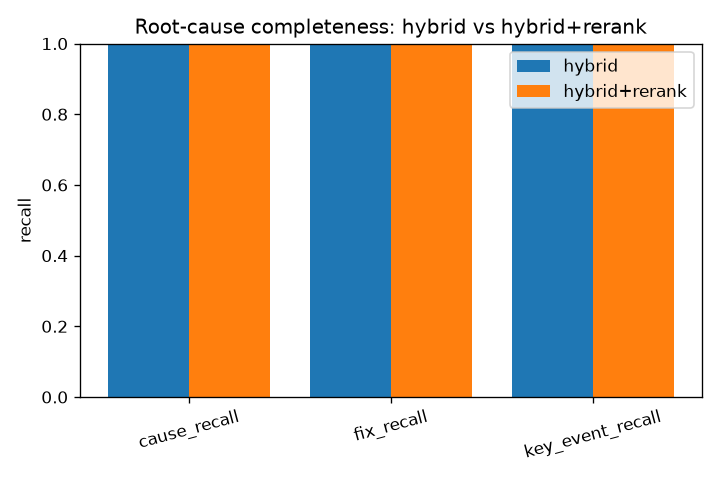
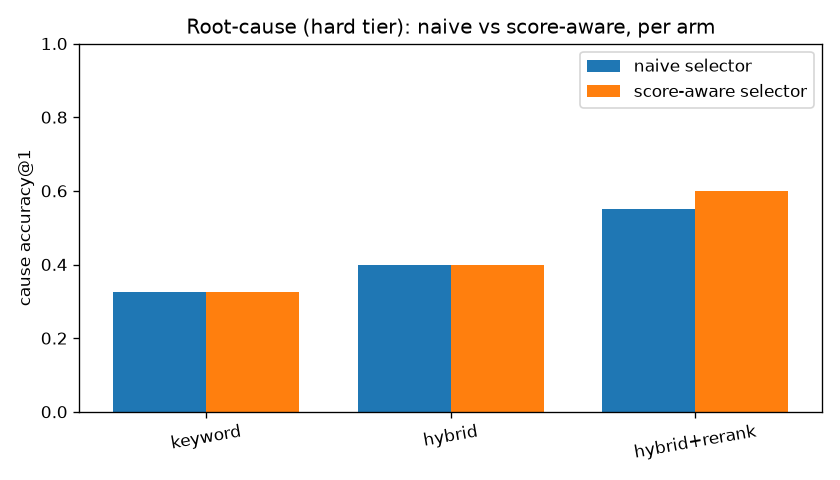
feat(eval): accuracy/MRR/recall ladder over the hard tier

diff --git a/freshet/eval/rootcause.py b/freshet/eval/rootcause.py
@@ -16,6 +16,8 @@ from __future__ import annotations
 import json
 import os
 
+from freshet.api.retrieval import RetrievedHit, keyword_sql
+
 RESULTS = "results/rootcause_eval.json"
 PLOT = "results/rootcause_completeness.png"
 
@@ -44,29 +46,54 @@ def completeness(ground_truth: dict[str, tuple[str, str]],
     }
 
 
-def _captured_for_config(conn, embedder, ground_truth, services_by_incident, reranker):
-    """For each incident, retrieve + build a timeline and collect the surfaced ids."""
-    from freshet.api.retrieval import hybrid_search
-    from freshet.api.synthesis import build_timeline
+def cause_accuracy(ground_truth: dict[str, str], selected: dict[str, str | None]) -> float:
+    n = len(ground_truth)
+    if n == 0:
+        return 0.0
+    hit = sum(1 for iid, cid in ground_truth.items() if selected.get(iid) == cid)
+    return round(hit / n, 3)
 
-    captured: dict[str, set[str]] = {}
-    for iid, service in services_by_incident.items():
-        q = f"what caused the {service} incident and how was it resolved?"
-        # Service-scoped (k=12), mirroring the product's root-cause path
-        # (run_rootcause_demo). This isolates the *synthesis* question — given an
-        # incident in scope, does the generalized timeline recover its true cause
-        # and fix across all six archetypes? — while run_eval carries the hard
-        # whole-corpus retrieval number.
-        res = hybrid_search(conn, embedder, q, k=12, service=service,
-                            min_similarity=0.0, reranker=reranker, tau_s=_EVAL_TAU_S)
-        tl = build_timeline(res.hits)
-        ids = {e.hit.event_id for e in tl.entries}
-        if tl.cause:
-            ids.add(tl.cause.event_id)
-        if tl.fix:
-            ids.add(tl.fix.event_id)
-        captured[iid] = ids
-    return captured
+
+def mrr(ground_truth: dict[str, str], ranked: dict[str, list[str]]) -> float:
+    n = len(ground_truth)
+    if n == 0:
+        return 0.0
+    total = 0.0
+    for iid, cid in ground_truth.items():
+        ids = ranked.get(iid, [])
+        if cid in ids:
+            total += 1.0 / (ids.index(cid) + 1)
+    return round(total / n, 3)
+
+
+def recall_at_k(ground_truth: dict[str, str], retrieved: dict[str, set[str]]) -> float:
+    n = len(ground_truth)
+    if n == 0:
+        return 0.0
+    hit = sum(1 for iid, cid in ground_truth.items() if cid in retrieved.get(iid, set()))
+    return round(hit / n, 3)
+
+
+def keyword_only_hits(conn, question: str, k: int, service=None) -> list[RetrievedHit]:
+    """Keyword-only retrieval arm as RetrievedHits (reusing the production keyword_sql),
+    ranked by full-text rank. similarity=0.0 (no vector arm); score is rank-based so
+    list order reflects keyword relevance."""
+    params = {"q": question, "k": 30}
+    if service is not None:
+        params["service"] = service
+    rows = conn.execute(keyword_sql(service, None), params).fetchall()
+    hits: list[RetrievedHit] = []
+    seen: set[str] = set()
+    for r in rows:
+        if r[1] in seen:
+            continue
+        seen.add(r[1])
+        hits.append(RetrievedHit(chunk_id=r[0], event_id=r[1], service=r[2], ts=r[3],
+                                 indexed_at=r[4], source=r[5], text=r[6], type=r[7],
+                                 similarity=0.0, score=1.0 / (len(hits) + 1)))
+        if len(hits) >= k:
+            break
+    return hits
 
 
 def _index_corpus(conn, embedder, events) -> None:
@@ -81,59 +108,102 @@ def _index_corpus(conn, embedder, events) -> None:
             upsert_record(conn, rec, vec)
 
 
+def _hits_for_arm(conn, embedder, service, arm, reranker):
+    q = f"what caused the {service} incident and how was it resolved?"
+    if arm == "keyword":
+        return keyword_only_hits(conn, q, k=12, service=service)
+    from freshet.api.retrieval import hybrid_search
+    res = hybrid_search(conn, embedder, q, k=12, service=service,
+                        min_similarity=0.0, reranker=reranker, tau_s=_EVAL_TAU_S)
+    return res.hits
+
+
+def _naive_cause(hits):
+    """Baseline selector: last change (by ts) at/before the first spike."""
+    from freshet.api.synthesis import _CAUSE_TYPES, _role
+    focus = sorted(hits, key=lambda h: h.ts)
+    spike_ts = next((h.ts for h in focus if _role(h) == "spike"), None)
+    changes = [h for h in focus if h.type in _CAUSE_TYPES
+               and (spike_ts is None or h.ts <= spike_ts)]
+    return changes[-1].event_id if changes else None
+
+
+def _ranked_change_ids(hits):
+    """Candidate change ids ordered by the score-aware selector's preference (for MRR)."""
+    from freshet.api.synthesis import _CAUSE_TYPES, _role, _select_cause
+    focus = sorted(hits, key=lambda h: h.ts)
+    spike_ts = next((h.ts for h in focus if _role(h) == "spike"), None)
+    changes = [h for h in focus if h.type in _CAUSE_TYPES
+               and (spike_ts is None or h.ts <= spike_ts)]
+    ordered = []
+    pool = list(changes)
+    while pool:
+        pick = _select_cause(pool, hits, spike_ts)
+        ordered.append(pick.event_id)
+        pool = [h for h in pool if h.event_id != pick.event_id]
+    return ordered
+
+
 def main() -> None:
     from freshet.common.db import connect
-    from freshet.generator.generator import build_benchmark
+    from freshet.generator.generator import build_hard_benchmark
     from freshet.pipeline.embedding import make_embedder
     from freshet.api.rerank import CrossEncoderReranker
+    from freshet.api.synthesis import build_timeline
 
-    # minilm (real semantic retrieval) is the meaningful base for a root-cause task;
-    # still keyless (model downloaded once). Override with FRESHET_EMBEDDER=stub.
     embedder = make_embedder(os.environ.get("FRESHET_EMBEDDER", "bge"))
     conn = connect()
-    events, truths = build_benchmark(seed=1, n_incidents=40)
+    events, truths = build_hard_benchmark(seed=1, n_incidents=40)
     _index_corpus(conn, embedder, events)
-    gt = {t.incident_id: (t.cause_id, t.fix_id) for t in truths}
+    gt_cause = {t.incident_id: t.cause_id for t in truths}
     services = {t.incident_id: t.service for t in truths}
 
-    configs = {"hybrid": None, "hybrid+rerank": CrossEncoderReranker()}
-    result = {"configs": {}}
-    for label, reranker in configs.items():
-        captured = _captured_for_config(conn, embedder, gt, services, reranker)
-        result["configs"][label] = completeness(gt, captured)
+    arms = {"keyword": None, "hybrid": None, "hybrid+rerank": CrossEncoderReranker()}
+    result = {"tier": "hard", "n_incidents": len(truths), "ladder": {}}
+    for arm, reranker in arms.items():
+        hits_by_inc = {iid: _hits_for_arm(conn, embedder, svc, arm, reranker)
+                       for iid, svc in services.items()}
+        retrieved = {iid: {h.event_id for h in hs} for iid, hs in hits_by_inc.items()}
+        naive_sel = {iid: _naive_cause(hs) for iid, hs in hits_by_inc.items()}
+        aware_sel = {iid: (build_timeline(hs).cause.event_id if build_timeline(hs).cause
+                           else None) for iid, hs in hits_by_inc.items()}
+        ranked = {iid: _ranked_change_ids(hs) for iid, hs in hits_by_inc.items()}
+        result["ladder"][arm] = {
+            "recall_at_k": recall_at_k(gt_cause, retrieved),
+            "accuracy_naive": cause_accuracy(gt_cause, naive_sel),
+            "accuracy_score_aware": cause_accuracy(gt_cause, aware_sel),
+            "mrr_score_aware": mrr(gt_cause, ranked),
+        }
 
     os.makedirs("results", exist_ok=True)
     with open(RESULTS, "w") as fh:
         json.dump(result, fh, indent=2)
     print(json.dumps(result, indent=2))
-    _plot(result["configs"])
+    _plot_ladder(result["ladder"])
     conn.close()
 
 
-def _plot(configs) -> None:
+def _plot_ladder(ladder) -> None:
     try:
         import matplotlib
         matplotlib.use("Agg")
         import matplotlib.pyplot as plt
+        import numpy as np
     except ImportError:
         print("(matplotlib not installed; skipping plot — pip install -e '.[eval]')")
         return
-    labels = list(configs)
-    metrics = ["cause_recall", "fix_recall", "key_event_recall"]
-    import numpy as np
-    x = np.arange(len(metrics))
-    width = 0.8 / max(len(labels), 1)
-    fig, ax = plt.subplots(figsize=(6, 4))
-    for i, label in enumerate(labels):
-        ax.bar(x + i * width, [configs[label][m] for m in metrics], width, label=label)
-    ax.set_xticks(x + width * (len(labels) - 1) / 2)
-    ax.set_xticklabels(metrics, rotation=15)
-    ax.set_ylim(0, 1)
-    ax.set_ylabel("recall")
-    ax.set_title("Root-cause completeness: hybrid vs hybrid+rerank")
-    ax.legend()
-    fig.tight_layout()
-    fig.savefig(PLOT, dpi=120)
+    arms = list(ladder)
+    x = np.arange(len(arms))
+    width = 0.38
+    fig, ax = plt.subplots(figsize=(7, 4))
+    ax.bar(x - width / 2, [ladder[a]["accuracy_naive"] for a in arms], width,
+           label="naive selector")
+    ax.bar(x + width / 2, [ladder[a]["accuracy_score_aware"] for a in arms], width,
+           label="score-aware selector")
+    ax.set_xticks(x); ax.set_xticklabels(arms, rotation=10)
+    ax.set_ylim(0, 1); ax.set_ylabel("cause accuracy@1")
+    ax.set_title("Root-cause (hard tier): naive vs score-aware, per arm")
+    ax.legend(); fig.tight_layout(); fig.savefig(PLOT, dpi=120)
     print(f"wrote {PLOT}")
 
 

diff --git a/tests/test_rootcause_metrics.py b/tests/test_rootcause_metrics.py
@@ -1,0 +1,20 @@
+from freshet.eval.rootcause import cause_accuracy, mrr, recall_at_k
+
+
+def test_cause_accuracy_counts_exact_matches():
+    gt = {"i1": "a", "i2": "b", "i3": "c"}
+    sel = {"i1": "a", "i2": "x", "i3": None}
+    assert cause_accuracy(gt, sel) == round(1 / 3, 3)
+
+
+def test_mrr_uses_reciprocal_rank_of_true_cause():
+    # true cause at rank 0 -> 1.0; rank 2 -> 1/3; absent -> 0
+    gt = {"i1": "a", "i2": "b", "i3": "c"}
+    ranked = {"i1": ["a", "z"], "i2": ["x", "y", "b"], "i3": ["p", "q"]}
+    assert mrr(gt, ranked) == round((1.0 + 1 / 3 + 0.0) / 3, 3)
+
+
+def test_recall_at_k_is_membership_in_retrieved_ids():
+    gt = {"i1": "a", "i2": "b"}
+    retrieved = {"i1": {"a", "z"}, "i2": {"x", "y"}}
+    assert recall_at_k(gt, retrieved) == round(1 / 2, 3)